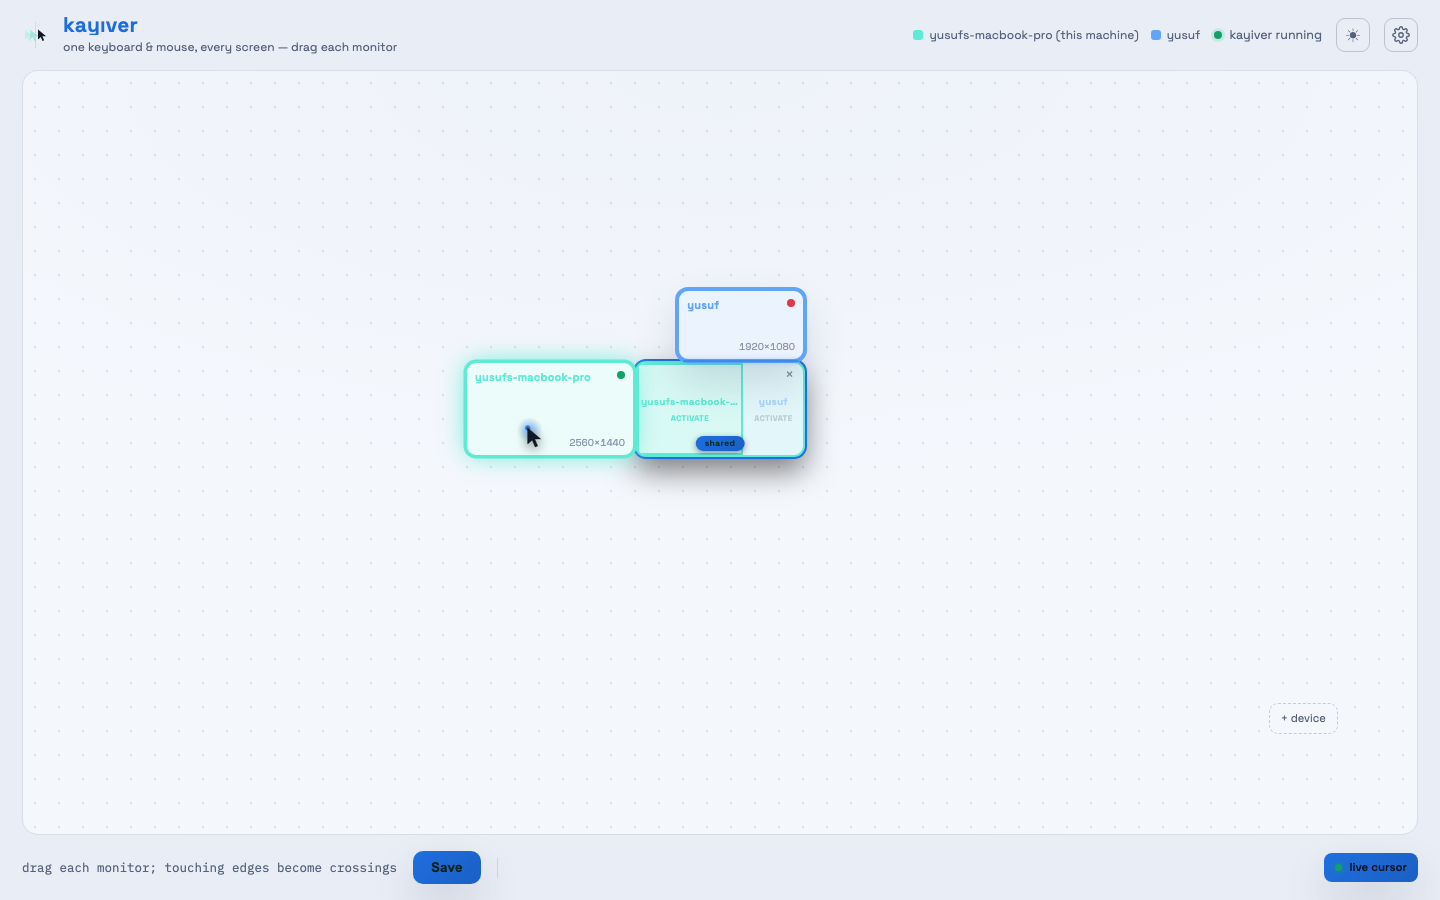
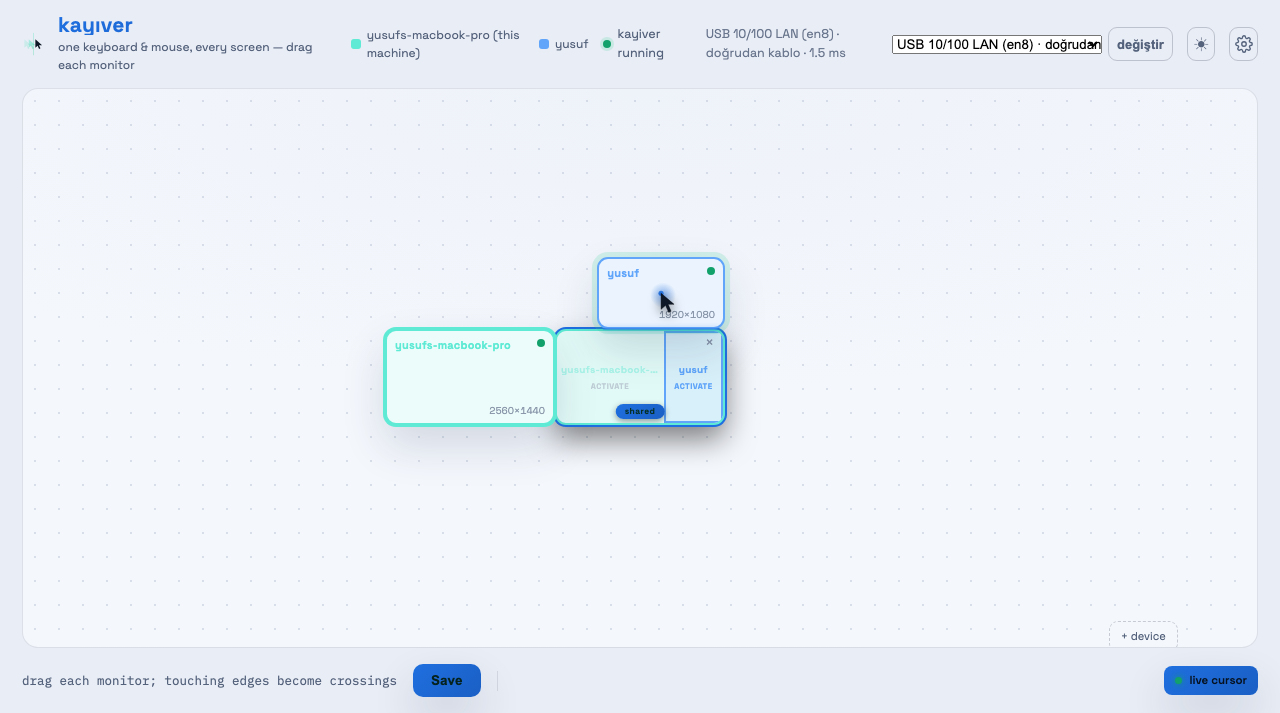
Real demo footage: live-crossing GIF in the README, mp4 on the site
Captured privacy-safe via Chrome DevTools screencast — frames come from
the editor page's own renderer, so nothing outside the kayiver window
can exist in them (no macOS screen-recording permission involved). The
recording is a real crossing on the real desk: Mac → shared panel →
Windows and back, over the direct cable at 1.5 ms, with the connection
path widget live in the status bar. The static editor screenshot is now
an all-green mid-crossing frame from the same session.

diff --git a/site/index.html b/site/index.html
@@ -406,6 +406,9 @@
     <p class="lede reveal">Kayıver isn’t developed against emulators. Every commit ships to the
       desk below and has to survive real crossings, real games, and a real shared monitor
       before it lands on <span class="mono">main</span>.</p>
+    <video class="reveal" src="demo.mp4" autoplay loop muted playsinline
+      style="width:100%;max-width:880px;border:1px solid var(--line);border-radius:14px;box-shadow:var(--shadow);margin:0 0 40px">
+    </video>
     <div class="setup">
       <div class="setup-list reveal">
         <div class="setup-row"><span class="lbl">Host</span>

diff --git a/README.md b/README.md
@@ -13,6 +13,13 @@ edge of one machine's screen and it appears on the next, exactly like moving
 between two monitors of the same computer. Keyboard input follows the cursor.
 (The name is Turkish: *"kayıvermek"* — to just glide over.)
 
+<p align="center">
+  <img src="assets/screenshots/demo.gif" width="820" alt="A real crossing, captured live from the layout editor: the cursor glides from the Mac onto the shared panel and the Windows machine takes over — over a direct cable at 1.5 ms">
+  <br>
+  <sub>Real footage from the layout editor during a live crossing: the cursor leaves the Mac,
+  the shared panel hands over, and the Windows machine takes focus — direct cable, 1.5 ms RTT.</sub>
+</p>
+
 - **Native feel, no lag** — a single ~2.5 MB Rust binary per machine, raw OS
   input APIs (CGEventTap / low-level hooks), relative mouse deltas over
   TCP+`TCP_NODELAY` on your LAN. No Electron, no runtime, no daemon zoo.
@@ -49,9 +56,9 @@ between two monitors of the same computer. Keyboard input follows the cursor.
 <p align="center">
   <img src="assets/screenshots/editor.png" width="820" alt="Kayıver layout editor — drag monitors, touching edges become crossings; the shared panel and the live cursor are first-class">
   <br>
-  <sub>The layout editor: drag each monitor to match your desk. Touching edges become crossings,
-  the blue <em>shared</em> panel belongs to whichever machine the monitor is showing, and the
-  status bar shows the live connection path (Wi-Fi / direct cable) with its RTT.</sub>
+  <sub>The layout editor mid-crossing: both machines green, the live cursor sitting on the
+  peer's screen, and the status bar showing the actual connection path —
+  "USB LAN · direct cable · 1.5 ms" — with a picker to move the session to another path.</sub>
 </p>
 
 | Platform | Give input (host) | Receive input (client) |